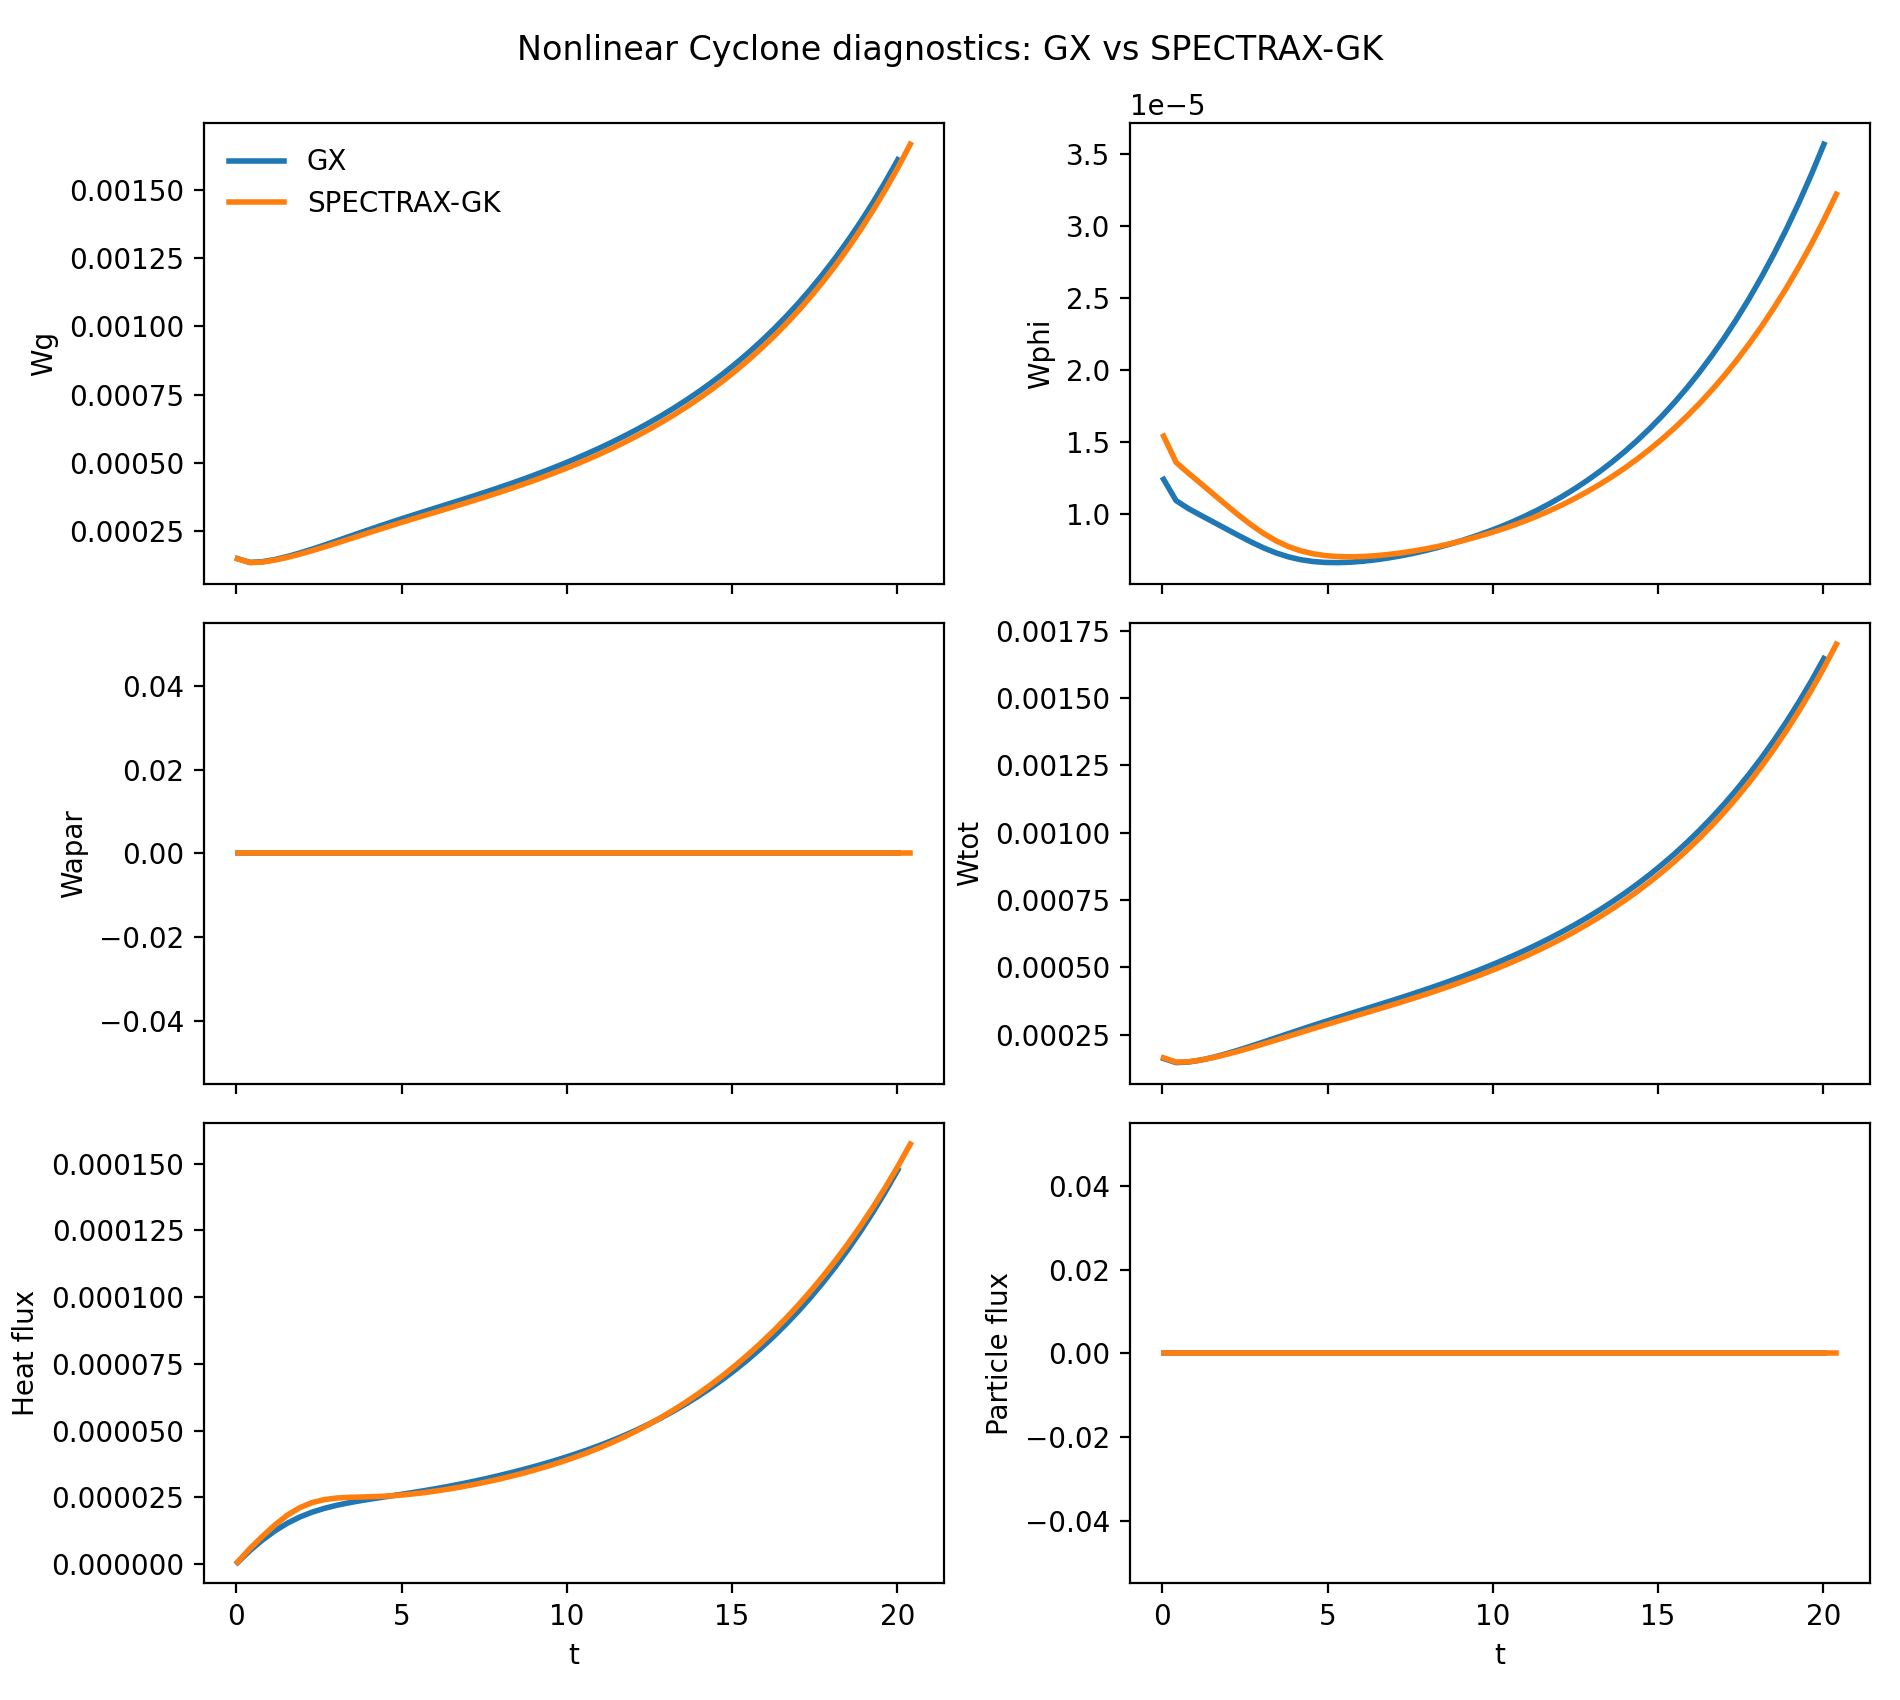
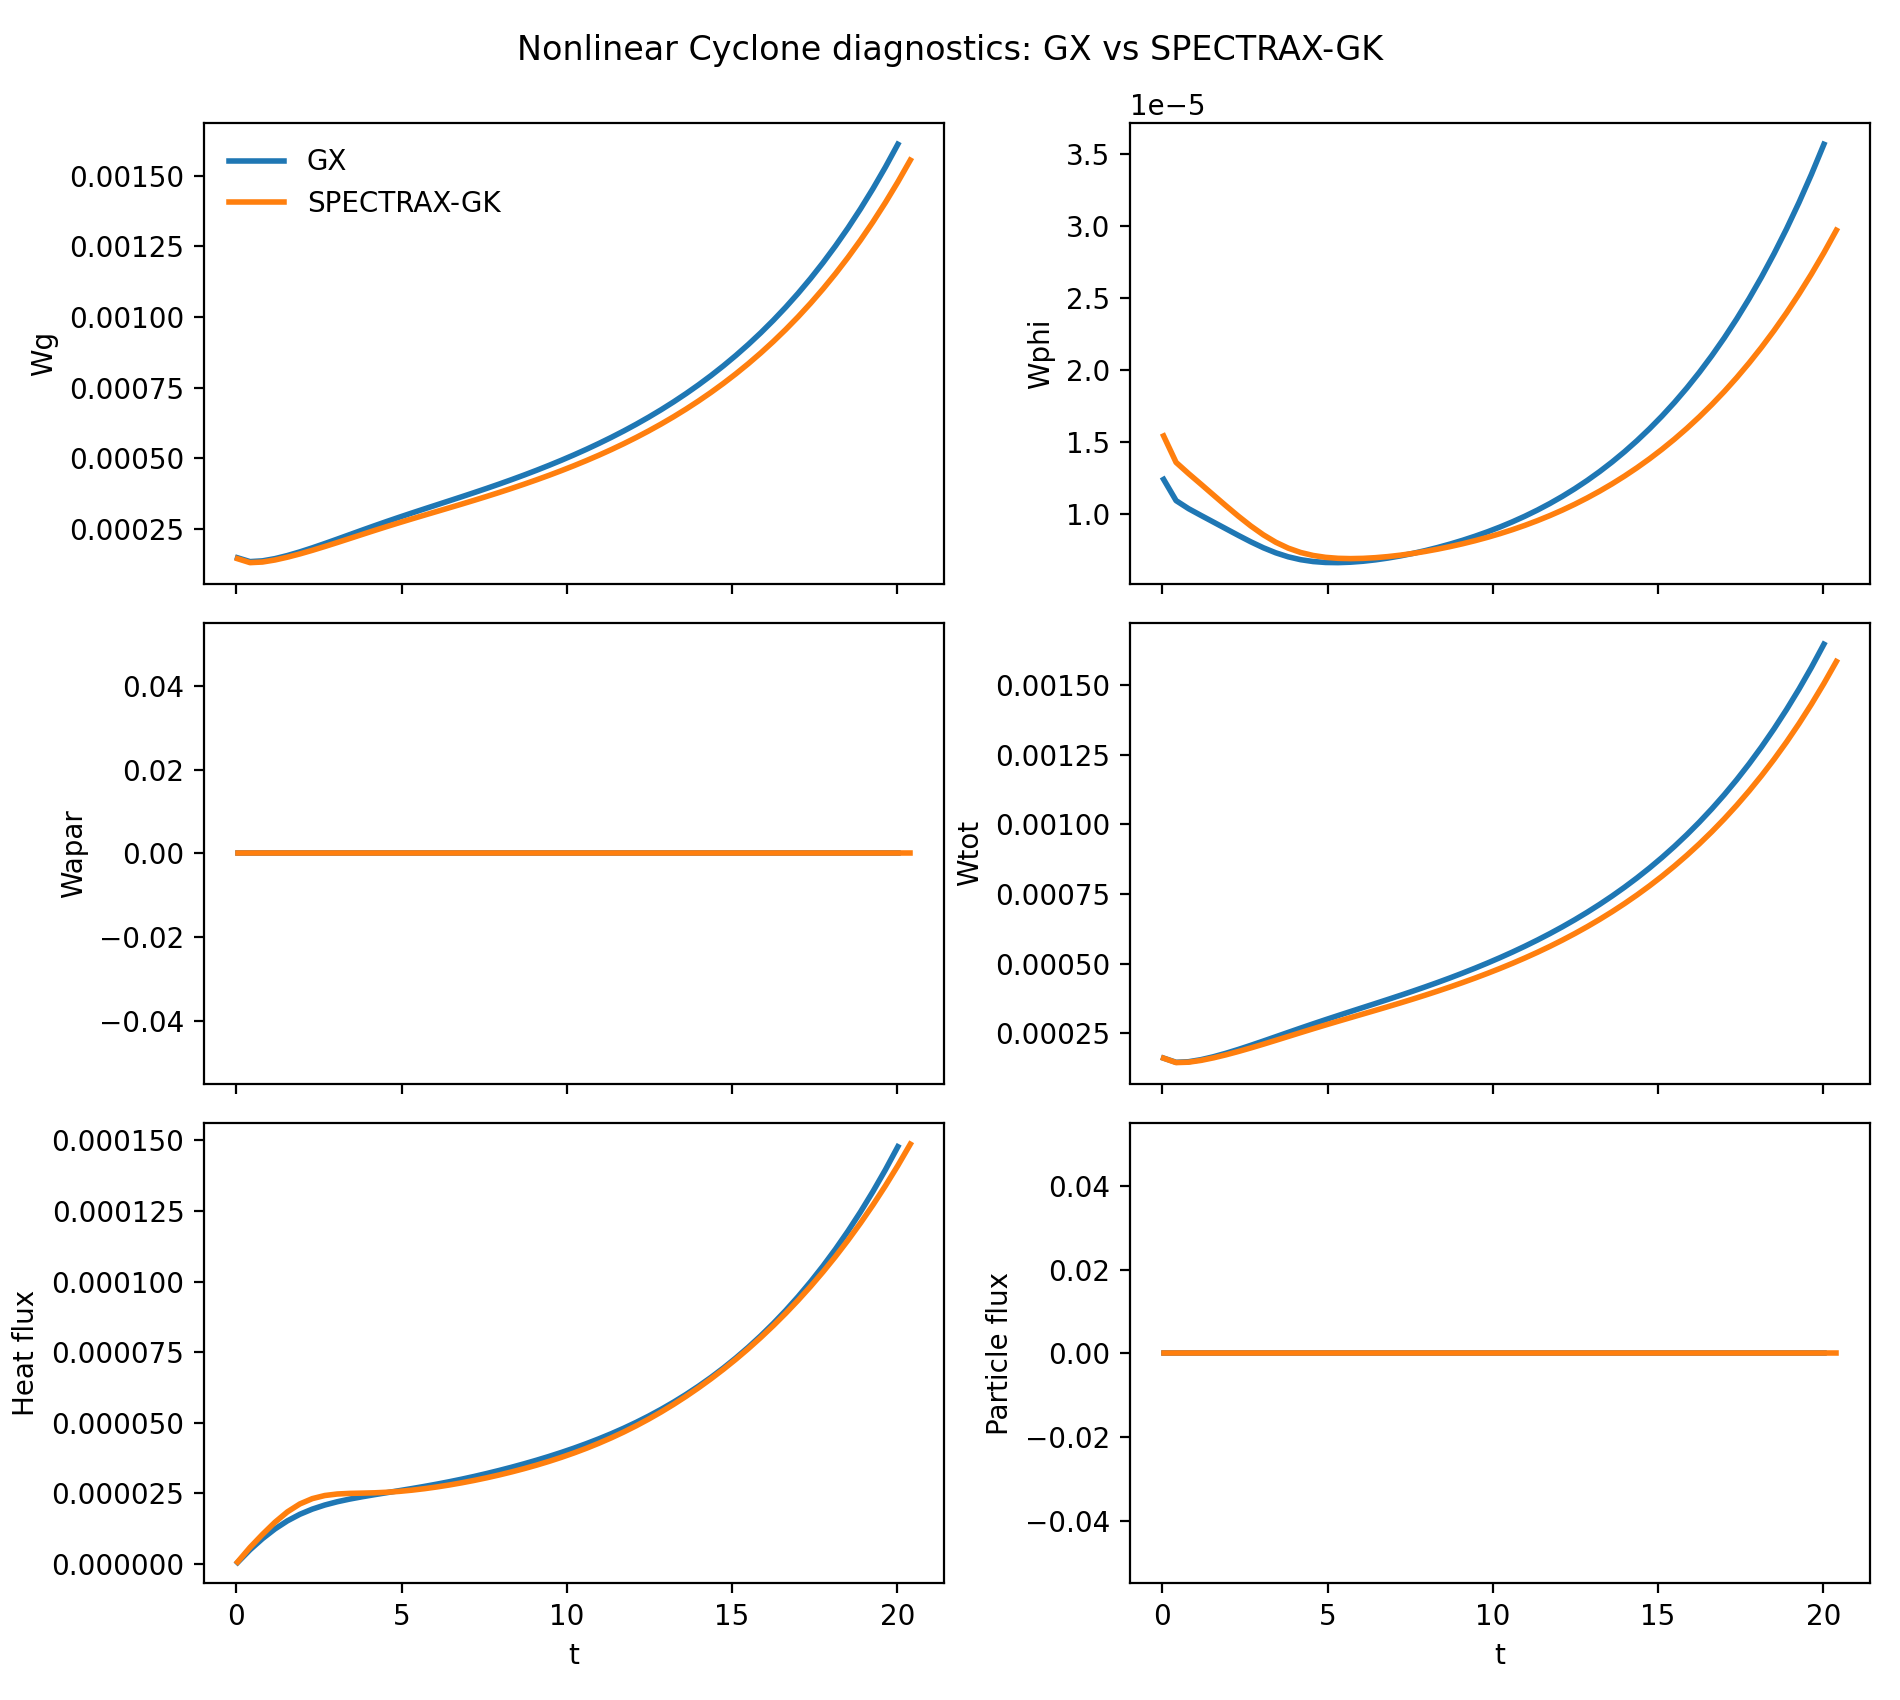
Match GX nonlinear init and diagnostics

diff --git a/src/spectraxgk/runtime.py b/src/spectraxgk/runtime.py
@@ -302,15 +302,46 @@ def _build_initial_condition(
         vals = amp * (1.0 + 1.0j) * np.ones_like(np.asarray(grid.z))
 
     species_index = 0 if nspecies == 1 else nspecies - 1
-    if init_field == "all":
-        for l_idx, m_idx in field_map.values():
-            if l_idx < Nl and m_idx < Nm:
-                g0[species_index, l_idx, m_idx, ky_index, kx_index, :] = vals
-    else:
+    if not cfg.init.init_single and not cfg.init.gaussian_init:
+        rng = np.random.default_rng(int(cfg.init.random_seed))
+        z = np.asarray(grid.z)
+        z_min = float(z.min())
+        z_max = float(z.max())
+        Zp = (z_max - z_min) / (2.0 * np.pi) if z_max > z_min else 1.0
+        kpar = float(cfg.init.kpar_init)
+        z_phase = np.cos(kpar * z / Zp)
+        ny = grid.ky.size
+        nx = grid.kx.size
+        ky_mask = np.asarray(grid.ky) > 0.0
+        kx_mask = np.asarray(grid.kx) >= 0.0
+        dealias = np.asarray(grid.dealias_mask)
+        ky_indices = np.where(ky_mask)[0]
+        kx_indices = np.where(kx_mask)[0]
         l_idx, m_idx = field_map[init_field]
         if l_idx >= Nl or m_idx >= Nm:
             raise ValueError("init_field moment exceeds (Nl, Nm) resolution")
-        g0[species_index, l_idx, m_idx, ky_index, kx_index, :] = vals
+        for ky_i in ky_indices:
+            for kx_i in kx_indices:
+                if not dealias[ky_i, kx_i]:
+                    continue
+                ra = amp * (rng.random() - 0.5)
+                rb = amp * (rng.random() - 0.5)
+                vals_k = (ra + 1j * rb) * z_phase
+                g0[species_index, l_idx, m_idx, ky_i, kx_i, :] = vals_k
+                if kx_i != 0:
+                    kx_neg = nx - kx_i
+                    vals_neg = (rb + 1j * ra) * z_phase
+                    g0[species_index, l_idx, m_idx, ky_i, kx_neg, :] = vals_neg
+    else:
+        if init_field == "all":
+            for l_idx, m_idx in field_map.values():
+                if l_idx < Nl and m_idx < Nm:
+                    g0[species_index, l_idx, m_idx, ky_index, kx_index, :] = vals
+        else:
+            l_idx, m_idx = field_map[init_field]
+            if l_idx >= Nl or m_idx >= Nm:
+                raise ValueError("init_field moment exceeds (Nl, Nm) resolution")
+            g0[species_index, l_idx, m_idx, ky_index, kx_index, :] = vals
     return jnp.asarray(g0)
 
 

diff --git a/src/spectraxgk/config.py b/src/spectraxgk/config.py
@@ -10,6 +10,8 @@ class InitializationConfig:
 
     init_field: str = "density"
     init_amp: float = 1.0e-5
+    init_single: bool = True
+    random_seed: int = 22
     gaussian_init: bool = False
     gaussian_width: float = 0.5
     gaussian_envelope_constant: float = 1.0

diff --git a/docs/inputs.rst b/docs/inputs.rst
@@ -186,3 +186,8 @@ Notable runtime-only keys:
   flux diagnostics (GX parity default ``2.0``).
 * ``[normalization] wphi_scale``: multiplicative factor applied to ``Wphi``
   diagnostics (Cyclone GX parity uses ``1.155``).
+* ``[init] init_single``: if false and ``gaussian_init`` is false, initialize
+  a GX-style random perturbation across the 2/3-resolved ``(ky,kx)`` spectrum
+  (useful for nonlinear Cyclone parity).
+* ``[init] random_seed``: RNG seed used for GX-style random initial conditions
+  (default ``22``, matching GX).
